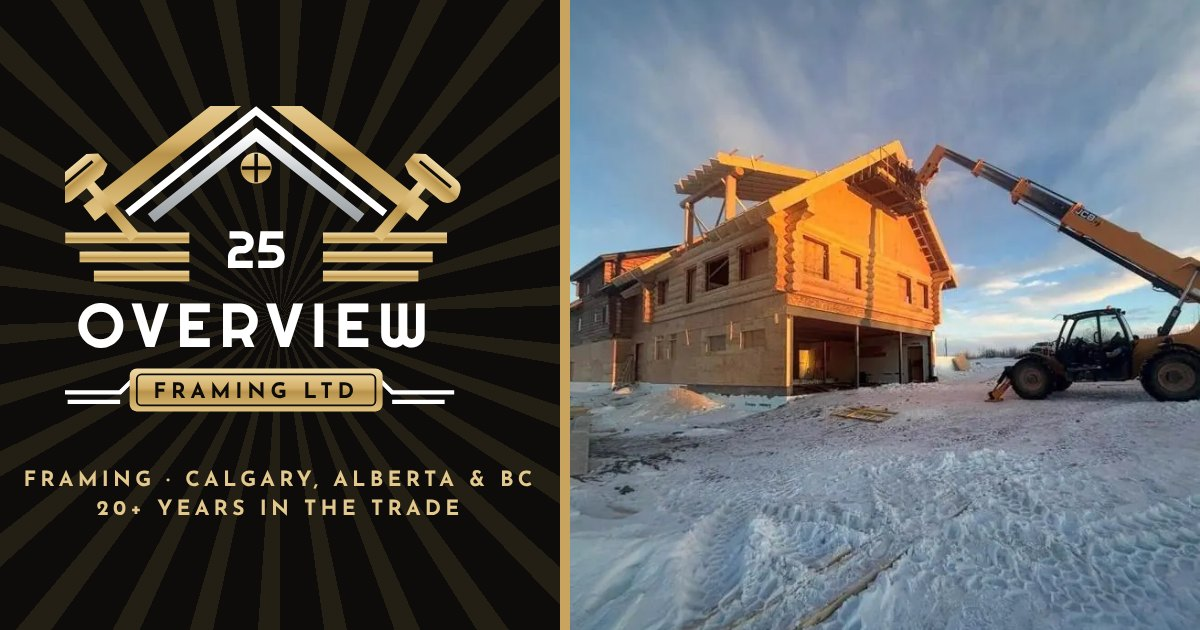
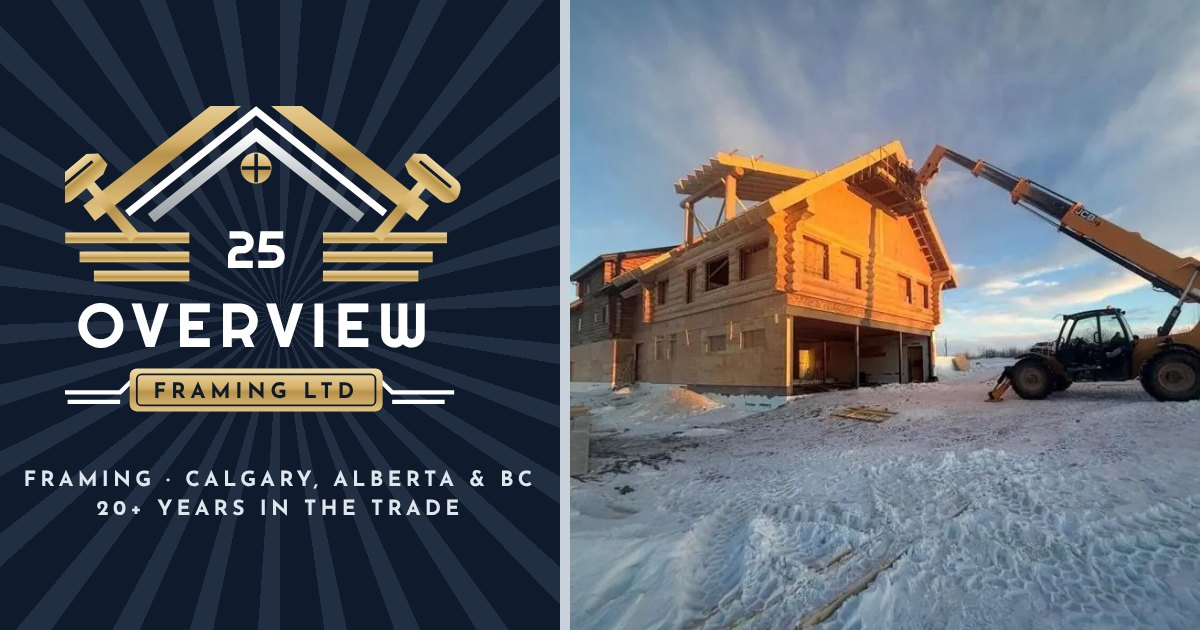
Overview Framing preview: navy and silver instead of black and gold
Hermes Framing is black and gold, so Overview's site now uses midnight
navy, brushed silver and white, with gold kept only in Brandon's logo.
Updated the 3D cabin plinth and lighting, the map and roof pitch
drawings, the dusk sky, the favicon, touch icon and share image.

Claude-Session: https://claude.ai/code/session_018pMZ9CVNc3LT9mLF1abJds

diff --git a/overview-framing/index.html b/overview-framing/index.html
@@ -8,7 +8,7 @@
   <!-- Preview copy: kept out of search results. At launch, change to: index, follow, max-image-preview:large, max-snippet:-1 -->
   <meta name="robots" content="noindex">
   <meta name="author" content="Overview Framing Ltd">
-  <meta name="theme-color" content="#0d0c0a">
+  <meta name="theme-color" content="#0f1b2d">
   <meta name="geo.region" content="CA-AB">
   <meta name="geo.placename" content="Calgary">
   <meta name="geo.position" content="51.0447;-114.0719">
@@ -48,24 +48,24 @@
    Layout: art deco. Dark sunburst hero with a 3D cabin build; ivory "paper" bands alternate with
    black bands; roof-peak chevrons, stepped corners and triple rules as the deco details. */
 :root {
-  --ink: #0d0c0a;
-  --ink-2: #16140f;
-  --ink-3: #201d17;
-  --ink-line: #34302a;
-  --gold: #c8a45f;
-  --gold-2: #e3c88d;
-  --gold-deep: #8a6a2c;
-  --silver: #bfc3c6;
-  --ivory: #f4efe3;
-  --on-ink: #f4efe3;
-  --on-ink-muted: #b4ab9a;
+  --ink: #0f1b2d;
+  --ink-2: #15243a;
+  --ink-3: #1c2d46;
+  --ink-line: #2a3d58;
+  --gold: #c9d1db;
+  --gold-2: #eef2f6;
+  --gold-deep: #7f8ea3;
+  --silver: #c9d1db;
+  --ivory: #f5f7fa;
+  --on-ink: #f5f7fa;
+  --on-ink-muted: #a9b6c6;
 
-  --bg: #f6f1e6;
-  --surface: #fffdf8;
-  --fg: #16140f;
-  --muted: #5f584b;
-  --line: #ddd3bf;
-  --accent: #8a6a2c;
+  --bg: #f2f5f8;
+  --surface: #ffffff;
+  --fg: #0f1b2d;
+  --muted: #55637a;
+  --line: #d6dee8;
+  --accent: #2f5277;
   --note-bg: #fbf0cf;
   --note-fg: #6b4c00;
 
@@ -78,9 +78,9 @@
   --gr: max(16px, env(safe-area-inset-right, 0px));
 }
 @media (prefers-color-scheme: dark) {
-  :root:not([data-theme="light"]) { --bg: #12110d; --surface: #1b1914; --fg: #f1ece0; --muted: #b0a794; --line: #352f25; --accent: #e3c88d; --note-bg: #3a3110; --note-fg: #f3d98a; color-scheme: dark; }
+  :root:not([data-theme="light"]) { --bg: #0c1522; --surface: #142134; --fg: #eef2f6; --muted: #a3b1c2; --line: #26364d; --accent: #b9c6d6; --note-bg: #3a3110; --note-fg: #f3d98a; color-scheme: dark; }
 }
-:root[data-theme="dark"] { --bg: #12110d; --surface: #1b1914; --fg: #f1ece0; --muted: #b0a794; --line: #352f25; --accent: #e3c88d; --note-bg: #3a3110; --note-fg: #f3d98a; color-scheme: dark; }
+:root[data-theme="dark"] { --bg: #0c1522; --surface: #142134; --fg: #eef2f6; --muted: #a3b1c2; --line: #26364d; --accent: #b9c6d6; --note-bg: #3a3110; --note-fg: #f3d98a; color-scheme: dark; }
 
 *, *::before, *::after { box-sizing: border-box; }
 html { -webkit-text-size-adjust: 100%; scroll-behavior: smooth; scroll-padding-top: 84px; }
@@ -123,14 +123,14 @@ section.band { padding-block: clamp(64px, 9vw, 116px); }
 .btn { --cut: 9px; display: inline-flex; align-items: center; justify-content: center; gap: 10px; min-height: 52px; padding: 0 26px; font: 700 .86rem/1 var(--label); letter-spacing: .16em; text-transform: uppercase; text-decoration: none; border: 0; clip-path: polygon(var(--cut) 0, calc(100% - var(--cut)) 0, 100% var(--cut), 100% calc(100% - var(--cut)), calc(100% - var(--cut)) 100%, var(--cut) 100%, 0 calc(100% - var(--cut)), 0 var(--cut)); transition: transform .2s var(--ease), filter .2s; }
 .btn:hover { transform: translateY(-2px); filter: brightness(1.06); }
 .btn svg { width: 18px; height: 18px; flex: none; }
-.btn-gold { background: linear-gradient(180deg, var(--gold-2), var(--gold) 55%, #b18d48); color: var(--ink); }
-.btn-silver { background: linear-gradient(180deg, #f4f5f6, var(--silver)); color: var(--ink); }
+.btn-gold { background: linear-gradient(180deg, #ffffff, #d5dce4 55%, #aeb9c6); color: var(--ink); }
+.btn-silver { background: #2a4366; color: #ffffff; }
 .btn-line { background: transparent; color: inherit; box-shadow: inset 0 0 0 1.5px currentColor; clip-path: none; }
 .btn-sm { min-height: 42px; padding: 0 18px; font-size: .76rem; }
 
 /* banner + header */
-.preview { background: var(--gold); color: var(--ink); font: 700 .78rem/1.4 var(--label); letter-spacing: .08em; text-align: center; padding-block: 9px 7px; }
-header.site { position: sticky; top: env(safe-area-inset-top, 0px); z-index: 50; background: rgba(13,12,10,.9); backdrop-filter: blur(10px); -webkit-backdrop-filter: blur(10px); color: var(--on-ink); border-bottom: 1px solid var(--ink-line); transition: background .3s; }
+.preview { background: #c9d1db; color: var(--ink); font: 700 .78rem/1.4 var(--label); letter-spacing: .08em; text-align: center; padding-block: 9px 7px; }
+header.site { position: sticky; top: env(safe-area-inset-top, 0px); z-index: 50; background: rgba(15,27,45,.9); backdrop-filter: blur(10px); -webkit-backdrop-filter: blur(10px); color: var(--on-ink); border-bottom: 1px solid var(--ink-line); transition: background .3s; }
 header.site::after { content: ""; position: absolute; left: 0; bottom: -1px; height: 2px; width: calc(var(--p, 0) * 100%); background: linear-gradient(90deg, var(--gold-deep), var(--gold-2)); }
 .hdr { display: flex; align-items: center; gap: 22px; min-height: 70px; }
 .brand { display: flex; align-items: center; gap: 12px; text-decoration: none; margin-right: auto; color: var(--on-ink); }
@@ -153,7 +153,7 @@ nav.main a:hover::after, nav.main a.on::after { transform: scaleX(1); }
 .menu-btn[aria-expanded="true"] span::after { transform: translateY(-6px) rotate(-45deg); }
 @media (max-width: 1040px) {
   .menu-btn { display: block; }
-  nav.main { position: absolute; left: 0; right: 0; top: 100%; flex-direction: column; background: rgba(13,12,10,.98); padding: 10px var(--gr) 18px var(--gl); border-bottom: 1px solid var(--ink-line); display: none; }
+  nav.main { position: absolute; left: 0; right: 0; top: 100%; flex-direction: column; background: rgba(15,27,45,.98); padding: 10px var(--gr) 18px var(--gl); border-bottom: 1px solid var(--ink-line); display: none; }
   nav.main.open { display: flex; }
   nav.main a { padding: 14px 0; font-size: .86rem; }
   nav.main a::after { left: 0; right: auto; width: 40px; }
@@ -162,14 +162,14 @@ nav.main a:hover::after, nav.main a.on::after { transform: scaleX(1); }
 
 /* hero: sunburst + 3D cabin */
 .hero { position: relative; overflow: hidden; padding-block: clamp(36px, 5vw, 70px) clamp(40px, 6vw, 80px); }
-.sunburst { position: absolute; left: 64%; top: 54%; width: 1800px; height: 1800px; margin: -900px 0 0 -900px; pointer-events: none; opacity: .5;
-  background: repeating-conic-gradient(from 0deg, rgba(200,164,95,.13) 0deg 4deg, transparent 4deg 12deg);
+.sunburst { --ray: rgba(170,192,220,.12); position: absolute; left: 64%; top: 54%; width: 1800px; height: 1800px; margin: -900px 0 0 -900px; pointer-events: none; opacity: .5;
+  background: repeating-conic-gradient(from 0deg, var(--ray) 0deg 4deg, transparent 4deg 12deg);
   -webkit-mask: radial-gradient(circle, #000 0 20%, transparent 62%); mask: radial-gradient(circle, #000 0 20%, transparent 62%); }
 @media (prefers-reduced-motion: no-preference) { .sunburst { animation: spin 160s linear infinite; } @keyframes spin { to { transform: rotate(360deg); } } }
 .hero-grid { position: relative; display: grid; grid-template-columns: .82fr 1.18fr; gap: clamp(24px, 4vw, 56px); align-items: center; }
 .hero-copy { display: grid; gap: 22px; min-width: 0; }
 .hero h1 { font-size: clamp(2.4rem, 4.9vw, 4.1rem); text-transform: uppercase; line-height: .98; }
-.hero h1 .g { background: linear-gradient(180deg, #fff3d3 0%, var(--gold-2) 40%, var(--gold) 60%, #9c7a38 100%); -webkit-background-clip: text; background-clip: text; color: transparent; }
+.hero h1 .g { background: linear-gradient(180deg, #ffffff 0%, #e3e9ef 40%, #a9b6c6 60%, #dfe6ee 100%); -webkit-background-clip: text; background-clip: text; color: transparent; }
 .hero .sub { color: var(--on-ink-muted); font-size: 1.1rem; max-width: 44ch; }
 .ctas { display: flex; flex-wrap: wrap; gap: 12px; }
 .contact-line { display: flex; flex-wrap: wrap; gap: 6px 22px; font: 600 .86rem/1.4 var(--label); letter-spacing: .06em; color: var(--on-ink-muted); }
@@ -178,7 +178,7 @@ nav.main a:hover::after, nav.main a.on::after { transform: scaleX(1); }
 @media (max-width: 480px) { .ctas .btn { flex: 1 1 100%; } }
 
 .viewer { position: relative; min-width: 0; }
-.viewer-frame { position: relative; background: radial-gradient(ellipse 75% 65% at 50% 46%, #2c271f, #14120e 62%, #0d0c0a); border: 1px solid rgba(200,164,95,.4); }
+.viewer-frame { position: relative; background: radial-gradient(ellipse 75% 65% at 50% 46%, #24395a, #142237 62%, #0f1b2d); border: 1px solid rgba(201,209,219,.4); }
 .viewer-frame::before, .viewer-frame::after { content: ""; position: absolute; width: 34px; height: 34px; pointer-events: none; z-index: 3; border: 2px solid var(--gold); }
 .viewer-frame::before { left: -6px; top: -6px; border-right: 0; border-bottom: 0; }
 .viewer-frame::after { right: -6px; bottom: -6px; border-left: 0; border-top: 0; }
@@ -186,7 +186,7 @@ nav.main a:hover::after, nav.main a.on::after { transform: scaleX(1); }
 #cabin-stage.dragging { cursor: grabbing; }
 #cabin-stage:focus-visible { box-shadow: inset 0 0 0 3px var(--gold-2); }
 #cabin-stage canvas { position: absolute; inset: 0; width: 100% !important; height: 100% !important; display: block; }
-#cabin-stage[data-light="dusk"] { background: radial-gradient(ellipse 80% 60% at 30% 40%, rgba(255,140,60,.22), transparent 60%), linear-gradient(180deg, #2a1d2c, #120e14 70%); }
+#cabin-stage[data-light="dusk"] { background: radial-gradient(ellipse 80% 60% at 30% 40%, rgba(255,140,60,.22), transparent 60%), linear-gradient(180deg, #2b3557, #0d1526 70%); }
 .loading { position: absolute; inset: 0; display: grid; place-items: center; color: var(--on-ink-muted); font: 700 .74rem/1 var(--label); letter-spacing: .24em; text-transform: uppercase; }
 .webgl-ready .loading { display: none; }
 .fallback { display: none; position: absolute; inset: 0; }
@@ -199,7 +199,7 @@ nav.main a:hover::after, nav.main a.on::after { transform: scaleX(1); }
 .v-hud dt { font: 700 .58rem/1 var(--label); letter-spacing: .2em; text-transform: uppercase; color: var(--on-ink-muted); }
 .v-hud dd { margin: 4px 0 0; font: 400 1.4rem/1 var(--display); color: var(--gold-2); font-variant-numeric: tabular-nums; }
 .v-ctrl { position: absolute; right: 22px; top: 20px; z-index: 2; display: flex; gap: 6px; }
-.vbtn { min-height: 38px; min-width: 38px; padding: 0 12px; display: inline-flex; gap: 6px; align-items: center; justify-content: center; border: 1px solid rgba(200,164,95,.5); background: rgba(13,12,10,.72); color: var(--on-ink); font: 700 .66rem/1 var(--label); letter-spacing: .16em; text-transform: uppercase; }
+.vbtn { min-height: 38px; min-width: 38px; padding: 0 12px; display: inline-flex; gap: 6px; align-items: center; justify-content: center; border: 1px solid rgba(201,209,219,.5); background: rgba(15,27,45,.72); color: var(--on-ink); font: 700 .66rem/1 var(--label); letter-spacing: .16em; text-transform: uppercase; }
 .vbtn:hover, .vbtn[aria-pressed="true"] { border-color: var(--gold-2); color: var(--gold-2); }
 .vbtn svg { width: 16px; height: 16px; }
 .scrub { display: grid; grid-template-columns: auto 1fr; gap: 14px; align-items: center; margin-top: 14px; }
@@ -207,8 +207,8 @@ nav.main a:hover::after, nav.main a.on::after { transform: scaleX(1); }
 .scrub-play svg { width: 18px; height: 18px; }
 .scrub-track { position: relative; min-width: 0; }
 .scrub input { width: 100%; margin: 0; appearance: none; -webkit-appearance: none; background: transparent; height: 30px; cursor: pointer; }
-.scrub input::-webkit-slider-runnable-track { height: 4px; background: linear-gradient(90deg, var(--gold) 0 calc(var(--v, 0) * 1%), #3a352c calc(var(--v, 0) * 1%)); }
-.scrub input::-moz-range-track { height: 4px; background: #3a352c; }
+.scrub input::-webkit-slider-runnable-track { height: 4px; background: linear-gradient(90deg, var(--gold) 0 calc(var(--v, 0) * 1%), #2a3d58 calc(var(--v, 0) * 1%)); }
+.scrub input::-moz-range-track { height: 4px; background: #2a3d58; }
 .scrub input::-moz-range-progress { height: 4px; background: var(--gold); }
 .scrub input::-webkit-slider-thumb { -webkit-appearance: none; width: 18px; height: 18px; margin-top: -7px; background: var(--gold-2); transform: rotate(45deg); border: 2px solid var(--ink); }
 .scrub input::-moz-range-thumb { width: 16px; height: 16px; background: var(--gold-2); transform: rotate(45deg); border: 2px solid var(--ink); border-radius: 0; }
@@ -244,13 +244,13 @@ section.band.answers { padding-block: clamp(44px, 6vw, 72px); }
 .face.front { color: #fff; }
 .face.front img { position: absolute; inset: 0; width: 100%; height: 100%; object-fit: cover; transition: transform .8s var(--ease); }
 .flip:hover .face.front img { transform: scale(1.05); }
-.face.front::after { content: ""; position: absolute; inset: 0; background: linear-gradient(180deg, rgba(13,12,10,.05) 30%, rgba(13,12,10,.88)); }
+.face.front::after { content: ""; position: absolute; inset: 0; background: linear-gradient(180deg, rgba(15,27,45,.05) 30%, rgba(15,27,45,.88)); }
 .face.front .ft { position: relative; z-index: 1; align-self: end; padding: 22px; display: grid; gap: 8px; }
 .face.front .num { font: 700 .7rem/1 var(--label); letter-spacing: .24em; color: var(--gold-2); }
 .face.front h3 { font-size: 1.5rem; }
 .face.front .more { font: 700 .66rem/1 var(--label); letter-spacing: .2em; text-transform: uppercase; color: var(--gold-2); display: inline-flex; gap: 8px; align-items: center; }
 .face.back { transform: rotateY(180deg); background: var(--ink); color: var(--on-ink); padding: 26px; align-content: start; gap: 14px; border: 1.5px solid var(--gold); }
-.face.back::before { content: ""; position: absolute; inset: 8px; border: 1px solid rgba(200,164,95,.35); pointer-events: none; }
+.face.back::before { content: ""; position: absolute; inset: 8px; border: 1px solid rgba(201,209,219,.35); pointer-events: none; }
 .face.back h3 { color: var(--gold-2); }
 .face.back p { color: var(--on-ink-muted); font-size: .96rem; }
 .face.back ul { margin: 0; padding: 0; list-style: none; display: flex; flex-wrap: wrap; gap: 6px; }
@@ -268,9 +268,9 @@ section.band.answers { padding-block: clamp(44px, 6vw, 72px); }
 .tile { break-inside: avoid; margin: 0 0 14px; position: relative; display: block; width: 100%; border: 0; padding: 0; background: var(--ink); overflow: hidden; cursor: zoom-in; transition: opacity .4s, transform .4s var(--ease); }
 .tile img { display: block; width: 100%; height: auto; transition: transform .7s var(--ease); }
 .tile:hover img { transform: scale(1.04); }
-.tile figcaption { position: absolute; left: 0; right: 0; bottom: 0; padding: 36px 16px 14px; background: linear-gradient(transparent, rgba(13,12,10,.9)); color: #fff; text-align: left; font-weight: 700; font-size: .92rem; display: grid; gap: 3px; }
+.tile figcaption { position: absolute; left: 0; right: 0; bottom: 0; padding: 36px 16px 14px; background: linear-gradient(transparent, rgba(15,27,45,.9)); color: #fff; text-align: left; font-weight: 700; font-size: .92rem; display: grid; gap: 3px; }
 .tile figcaption small { font: 700 .62rem/1 var(--label); letter-spacing: .22em; text-transform: uppercase; color: var(--gold-2); }
-.tile::after { content: ""; position: absolute; inset: 10px; border: 1px solid rgba(227,200,141,.6); opacity: 0; transition: opacity .3s, inset .3s var(--ease); pointer-events: none; }
+.tile::after { content: ""; position: absolute; inset: 10px; border: 1px solid rgba(238,242,246,.6); opacity: 0; transition: opacity .3s, inset .3s var(--ease); pointer-events: none; }
 .tile:hover::after, .tile:focus-visible::after { opacity: 1; inset: 14px; }
 .tile.hide { display: none; }
 .gal-note { margin-top: 10px; color: var(--muted); font-size: .86rem; }
@@ -324,8 +324,8 @@ section.band.answers { padding-block: clamp(44px, 6vw, 72px); }
 /* about */
 .about-grid { display: grid; grid-template-columns: .9fr 1.1fr; gap: clamp(32px, 6vw, 72px); align-items: center; }
 .badge { background: var(--ink); padding: clamp(28px, 5vw, 52px); position: relative; overflow: hidden; display: grid; place-items: center; perspective: 900px; --c: 26px; clip-path: polygon(var(--c) 0, calc(100% - var(--c)) 0, 100% var(--c), 100% calc(100% - var(--c)), calc(100% - var(--c)) 100%, var(--c) 100%, 0 calc(100% - var(--c)), 0 var(--c)); }
-.badge::before { content: ""; position: absolute; inset: -40%; background: repeating-conic-gradient(rgba(200,164,95,.1) 0deg 5deg, transparent 5deg 15deg); }
-.badge::after { content: ""; position: absolute; inset: 0; pointer-events: none; background: linear-gradient(105deg, transparent 38%, rgba(255,240,200,.16) 50%, transparent 62%); transform: translateX(var(--shine, -70%)); transition: transform .2s linear; }
+.badge::before { content: ""; position: absolute; inset: -40%; background: repeating-conic-gradient(rgba(201,209,219,.1) 0deg 5deg, transparent 5deg 15deg); }
+.badge::after { content: ""; position: absolute; inset: 0; pointer-events: none; background: linear-gradient(105deg, transparent 38%, rgba(235,242,250,.16) 50%, transparent 62%); transform: translateX(var(--shine, -70%)); transition: transform .2s linear; }
 .badge svg { position: relative; width: 100%; max-width: 400px; height: auto; transform: rotateX(var(--rx, 0)) rotateY(var(--ry, 0)); transition: transform .3s var(--ease); filter: drop-shadow(0 16px 24px rgba(0,0,0,.6)); }
 .about-copy { display: grid; gap: 18px; min-width: 0; }
 .about-copy p { max-width: 62ch; }
@@ -343,7 +343,7 @@ section.band.answers { padding-block: clamp(44px, 6vw, 72px); }
 .map svg { display: block; width: 100%; height: auto; }
 .prov-cards { display: grid; gap: 14px; }
 .prov { border: 1px solid var(--ink-line); padding: 24px; display: grid; gap: 8px; align-content: start; background: transparent; text-align: left; color: inherit; transition: border-color .3s, background .3s; }
-.prov[aria-pressed="true"] { border-color: var(--gold); background: rgba(200,164,95,.07); }
+.prov[aria-pressed="true"] { border-color: var(--gold); background: rgba(201,209,219,.07); }
 .prov .code { font: 400 2rem/1 var(--display); color: var(--gold-2); }
 .prov p { color: var(--on-ink-muted); }
 .map .shape { transition: fill .4s, stroke .4s; }
@@ -381,13 +381,13 @@ section.band.answers { padding-block: clamp(44px, 6vw, 72px); }
 .tile-opt input { position: absolute; inset: 0; opacity: 0; margin: 0; cursor: pointer; }
 .tile-opt span { display: grid; gap: 8px; height: 100%; padding: 14px; border: 1.5px solid var(--line); font-weight: 700; font-size: .9rem; line-height: 1.25; transition: border-color .2s, background .2s; }
 .tile-opt svg { width: 28px; height: 28px; color: var(--accent); }
-.tile-opt input:checked + span { border-color: var(--gold); background: rgba(200,164,95,.12); }
+.tile-opt input:checked + span { border-color: var(--gold); background: rgba(201,209,219,.12); }
 .tile-opt input:focus-visible + span { outline: 3px solid var(--gold-2); outline-offset: 2px; }
 .opts { display: flex; flex-wrap: wrap; gap: 8px; }
 .opt { position: relative; }
 .opt input { position: absolute; inset: 0; opacity: 0; margin: 0; cursor: pointer; }
 .opt span { display: inline-flex; align-items: center; min-height: 42px; padding: 0 16px; border: 1.5px solid var(--line); font-weight: 700; font-size: .9rem; }
-.opt input:checked + span { border-color: var(--gold); background: rgba(200,164,95,.12); }
+.opt input:checked + span { border-color: var(--gold); background: rgba(201,209,219,.12); }
 .opt input:focus-visible + span { outline: 3px solid var(--gold-2); outline-offset: 2px; }
 .q-label { font: 700 .7rem/1.3 var(--label); letter-spacing: .18em; text-transform: uppercase; color: var(--muted); }
 .fields { display: grid; grid-template-columns: 1fr 1fr; gap: 14px; }
@@ -395,7 +395,7 @@ section.band.answers { padding-block: clamp(44px, 6vw, 72px); }
 .field { display: grid; gap: 6px; font-weight: 700; font-size: .88rem; min-width: 0; }
 .field input, .field textarea { font: inherit; font-weight: 400; color: var(--fg); background: var(--bg); border: 1.5px solid var(--line); padding: 12px 13px; min-height: 48px; width: 100%; }
 .field textarea { min-height: 110px; resize: vertical; }
-.field input:focus, .field textarea:focus { outline: none; border-color: var(--gold); box-shadow: 0 0 0 3px rgba(200,164,95,.25); }
+.field input:focus, .field textarea:focus { outline: none; border-color: var(--gold); box-shadow: 0 0 0 3px rgba(201,209,219,.25); }
 .err { color: #b3261e; font-size: .82rem; }
 .wz-nav { display: flex; justify-content: space-between; gap: 12px; margin-top: 22px; }
 .wz-nav .btn-line { color: var(--fg); }
@@ -413,7 +413,7 @@ footer.site { padding-block: 48px calc(48px + 76px); font-size: .9rem; color: va
 .foot a { text-decoration: none; } .foot a:hover { color: var(--gold-2); }
 .foot-bottom { margin-top: 34px; padding-top: 20px; border-top: 1px solid var(--ink-line); display: flex; flex-wrap: wrap; justify-content: space-between; gap: 8px 20px; font-size: .8rem; }
 @media (min-width: 1041px) { footer.site { padding-bottom: 48px; } }
-.callbar { position: fixed; left: 0; right: 0; bottom: 0; z-index: 55; display: none; gap: 10px; padding: 10px var(--gr) calc(10px + env(safe-area-inset-bottom, 0px)) var(--gl); background: rgba(13,12,10,.96); border-top: 1px solid var(--ink-line); transition: transform .3s var(--ease); }
+.callbar { position: fixed; left: 0; right: 0; bottom: 0; z-index: 55; display: none; gap: 10px; padding: 10px var(--gr) calc(10px + env(safe-area-inset-bottom, 0px)) var(--gl); background: rgba(15,27,45,.96); border-top: 1px solid var(--ink-line); transition: transform .3s var(--ease); }
 .callbar .btn { flex: 1; min-height: 50px; padding: 0 10px; }
 @media (max-width: 1040px) { .callbar { display: flex; } }
 
@@ -438,14 +438,14 @@ footer.site { padding-block: 48px calc(48px + 76px); font-size: .9rem; color: va
     <g id="ovHammer">
       <path d="M-4 0 L4 0 L5 66 L-5 66 Z" fill="url(#ovGold)"/>
       <path d="M-20 -14 L14 -14 L22 -8 L22 4 L14 8 L-20 8 Q-28 8 -30 -2 Q-28 -14 -20 -14 Z" fill="url(#ovGold)"/>
-      <path d="M-20 -6 L14 -6" stroke="#0d0c0a" stroke-width="2.5"/>
+      <path d="M-20 -6 L14 -6" stroke="#0f1b2d" stroke-width="2.5"/>
     </g>
     <g id="ovRoof">
       <path d="M60 150 L200 40 L340 150" fill="none" stroke="url(#ovGold)" stroke-width="16" stroke-linejoin="miter"/>
       <path d="M92 150 L200 64 L308 150" fill="none" stroke="#ffffff" stroke-width="6"/>
       <path d="M112 154 L200 84 L288 154" fill="none" stroke="url(#ovSilver)" stroke-width="9"/>
       <circle cx="200" cy="112" r="13" fill="url(#ovGold)"/>
-      <path d="M200 100 V124 M188 112 H212" stroke="#0d0c0a" stroke-width="3"/>
+      <path d="M200 100 V124 M188 112 H212" stroke="#0f1b2d" stroke-width="3"/>
       <g fill="url(#ovGold)"><rect x="40" y="166" width="104" height="9"/><rect x="52" y="182" width="92" height="9"/><rect x="64" y="198" width="80" height="9"/><rect x="256" y="166" width="104" height="9"/><rect x="256" y="182" width="92" height="9"/><rect x="256" y="198" width="80" height="9"/></g>
       <use href="#ovHammer" transform="translate(56 120) rotate(-40)"/>
       <use href="#ovHammer" transform="translate(344 120) rotate(40) scale(-1 1)"/>
@@ -460,8 +460,8 @@ footer.site { padding-block: 48px calc(48px + 76px); font-size: .9rem; color: va
     <path d="M34 300 H86 L96 290 M42 308 H86" fill="none" stroke="#ffffff" stroke-width="3.5"/>
     <path d="M366 300 H314 L304 290 M358 308 H314" fill="none" stroke="#ffffff" stroke-width="3.5"/>
     <rect x="94" y="280" width="212" height="36" rx="6" fill="url(#ovGold)"/>
-    <rect x="100" y="285" width="200" height="26" rx="4" fill="none" stroke="#0d0c0a" stroke-width="1.5"/>
-    <text x="200" y="305" text-anchor="middle" font-family="'Josefin Sans', Arial, sans-serif" font-weight="700" font-size="18" letter-spacing="4" fill="#0d0c0a">FRAMING LTD</text>
+    <rect x="100" y="285" width="200" height="26" rx="4" fill="none" stroke="#0f1b2d" stroke-width="1.5"/>
+    <text x="200" y="305" text-anchor="middle" font-family="'Josefin Sans', Arial, sans-serif" font-weight="700" font-size="18" letter-spacing="4" fill="#0f1b2d">FRAMING LTD</text>
   </symbol>
 </svg>
 <svg width="0" height="0" style="position:absolute" aria-hidden="true">

diff --git a/overview-framing/js/main.js b/overview-framing/js/main.js
@@ -87,7 +87,7 @@
   ];
   var flips = $('#flips');
   if (flips) {
-    var GARAGE = '<svg viewBox="0 0 300 300" aria-hidden="true" style="position:absolute;inset:0;width:100%;height:100%;background:#16140f"><g fill="none" stroke="#c8a45f" stroke-width="2"><path d="M40 150 150 70l110 80"/><path d="M60 140v110h180V140"/><path d="M95 250v-70h110v70"/><path d="M95 198h110M95 216h110M95 234h110" stroke-width="1.2"/>' +
+    var GARAGE = '<svg viewBox="0 0 300 300" aria-hidden="true" style="position:absolute;inset:0;width:100%;height:100%;background:#15243a"><g fill="none" stroke="#c9d1db" stroke-width="2"><path d="M40 150 150 70l110 80"/><path d="M60 140v110h180V140"/><path d="M95 250v-70h110v70"/><path d="M95 198h110M95 216h110M95 234h110" stroke-width="1.2"/>' +
       [0, 1, 2, 3, 4, 5, 6, 7, 8].map(function (i) { return '<path d="M' + (72 + i * 19.5) + ' 140v' + (i % 3 === 1 ? 30 : 110) + '" stroke-width="1" opacity=".5"/>'; }).join('') + '<path d="M150 70v30" /><circle cx="150" cy="112" r="9"/></g></svg>';
     SERVICES.forEach(function (s, i) {
       var b = document.createElement('button');
@@ -181,11 +181,11 @@
       var oh = 2, wall = 8, ridgeRise = s / 2 * r / 12, ohDrop = oh * r / 12;
       var sc = Math.min(520 / (s + 2 * oh), 230 / (ridgeRise + wall + 1));
       var gy = 318, cx = 300, plateY = gy - wall * sc, ridgeY = plateY - ridgeRise * sc, half = s / 2 * sc;
-      var gold = '#c8a45f', gold2 = '#e3c88d', sil = '#bfc3c6', mut = '#6f675a';
-      for (var gx = 0; gx <= 600; gx += 20) el('line', { x1: gx, y1: 0, x2: gx, y2: 340, stroke: '#211e18', 'stroke-width': 1 }, psvg);
-      for (var gy2 = 0; gy2 <= 340; gy2 += 20) el('line', { x1: 0, y1: gy2, x2: 600, y2: gy2, stroke: '#211e18', 'stroke-width': 1 }, psvg);
+      var gold = '#8fb0d4', gold2 = '#eef2f6', sil = '#c9d1db', mut = '#5f7089';
+      for (var gx = 0; gx <= 600; gx += 20) el('line', { x1: gx, y1: 0, x2: gx, y2: 340, stroke: '#1b2a40', 'stroke-width': 1 }, psvg);
+      for (var gy2 = 0; gy2 <= 340; gy2 += 20) el('line', { x1: 0, y1: gy2, x2: 600, y2: gy2, stroke: '#1b2a40', 'stroke-width': 1 }, psvg);
       el('line', { x1: 20, y1: gy, x2: 580, y2: gy, stroke: mut, 'stroke-width': 2 }, psvg);
-      el('rect', { x: cx - half, y: plateY, width: half * 2, height: wall * sc, fill: 'rgba(200,164,95,.06)', stroke: sil, 'stroke-width': 2 }, psvg);
+      el('rect', { x: cx - half, y: plateY, width: half * 2, height: wall * sc, fill: 'rgba(201,209,219,.05)', stroke: sil, 'stroke-width': 2 }, psvg);
       for (var k = 1; k < s / 1.333; k++) { var x = cx - half + k * 1.333 * sc; if (x < cx + half - 2) el('line', { x1: x, y1: plateY, x2: x, y2: gy, stroke: sil, 'stroke-width': 0.6, opacity: 0.35 }, psvg); }
       // truss webbing
       var w = [[cx - half, plateY], [cx - half / 2, plateY - ridgeRise * sc / 2], [cx - half / 3, plateY], [cx, ridgeY], [cx + half / 3, plateY], [cx + half / 2, plateY - ridgeRise * sc / 2], [cx + half, plateY]];
@@ -234,29 +234,29 @@
     var AB = [[-120, 60], [-110, 60], [-110, 49]].concat(divide).concat([[-120, 60]]);
     var BC = [[-120, 60], [-139.05, 60], [-137.6, 59.2], [-135.4, 59.7], [-133.4, 58.4], [-131.8, 56.6], [-130.0, 55.9], [-130.5, 54.7], [-129.6, 53.5], [-128.4, 52.3], [-127.4, 51.0], [-125.4, 50.2], [-124.3, 49.4], [-123.1, 49.0]].concat(divide).concat([[-120, 60]]);
     var VI = [[-128.4, 50.8], [-127.2, 50.9], [-125.4, 50.2], [-123.5, 48.4], [-124.7, 48.6], [-126.5, 49.5]];
-    for (var gx = 0; gx <= 640; gx += 32) el('line', { x1: gx, y1: 0, x2: gx, y2: 420, stroke: '#1f1c17', 'stroke-width': 1 }, map);
-    for (var gy = 0; gy <= 420; gy += 32) el('line', { x1: 0, y1: gy, x2: 640, y2: gy, stroke: '#1f1c17', 'stroke-width': 1 }, map);
+    for (var gx = 0; gx <= 640; gx += 32) el('line', { x1: gx, y1: 0, x2: gx, y2: 420, stroke: '#1b2a40', 'stroke-width': 1 }, map);
+    for (var gy = 0; gy <= 420; gy += 32) el('line', { x1: 0, y1: gy, x2: 640, y2: gy, stroke: '#1b2a40', 'stroke-width': 1 }, map);
     var shapes = {
       bc: [el('path', { d: P(BC), class: 'shape' }, map), el('path', { d: P(VI), class: 'shape' }, map)],
       ab: [el('path', { d: P(AB), class: 'shape' }, map)]
     };
-    el('text', { x: X(-126.5), y: Y(55.2), fill: '#7d7464', 'font-family': 'Josefin Sans, Arial', 'font-weight': 700, 'font-size': 13, 'letter-spacing': 4, 'text-anchor': 'middle' }, map, 'BRITISH COLUMBIA');
-    el('text', { x: X(-114.8), y: Y(56.4), fill: '#7d7464', 'font-family': 'Josefin Sans, Arial', 'font-weight': 700, 'font-size': 13, 'letter-spacing': 4, 'text-anchor': 'middle' }, map, 'ALBERTA');
+    el('text', { x: X(-126.5), y: Y(55.2), fill: '#7f8ea3', 'font-family': 'Josefin Sans, Arial', 'font-weight': 700, 'font-size': 13, 'letter-spacing': 4, 'text-anchor': 'middle' }, map, 'BRITISH COLUMBIA');
+    el('text', { x: X(-114.8), y: Y(56.4), fill: '#7f8ea3', 'font-family': 'Josefin Sans, Arial', 'font-weight': 700, 'font-size': 13, 'letter-spacing': 4, 'text-anchor': 'middle' }, map, 'ALBERTA');
     [['Edmonton', -113.49, 53.55], ['Red Deer', -113.81, 52.27], ['Rocky Mtn House', -114.92, 52.37], ['Kamloops', -120.33, 50.67], ['Kelowna', -119.5, 49.89], ['Vancouver', -123.12, 49.28]].forEach(function (t) {
-      el('circle', { cx: X(t[1]), cy: Y(t[2]), r: 3, fill: '#8e8574' }, map);
-      el('text', { x: X(t[1]) + (t[0] === 'Rocky Mtn House' || t[0] === 'Kamloops' || t[0] === 'Vancouver' ? -6 : 6), y: Y(t[2]) + 4, fill: '#8e8574', 'font-family': 'DM Sans, Arial', 'font-size': 10, 'text-anchor': t[0] === 'Rocky Mtn House' || t[0] === 'Kamloops' || t[0] === 'Vancouver' ? 'end' : 'start' }, map, t[0]);
+      el('circle', { cx: X(t[1]), cy: Y(t[2]), r: 3, fill: '#8796ab' }, map);
+      el('text', { x: X(t[1]) + (t[0] === 'Rocky Mtn House' || t[0] === 'Kamloops' || t[0] === 'Vancouver' ? -6 : 6), y: Y(t[2]) + 4, fill: '#8796ab', 'font-family': 'DM Sans, Arial', 'font-size': 10, 'text-anchor': t[0] === 'Rocky Mtn House' || t[0] === 'Kamloops' || t[0] === 'Vancouver' ? 'end' : 'start' }, map, t[0]);
     });
     var cxp = X(-114.07), cyp = Y(51.05);
     [70, 140, 210].forEach(function (rr, i) {
-      var ring = el('circle', { cx: cxp, cy: cyp, r: rr, fill: 'none', stroke: '#c8a45f', 'stroke-width': 1, 'stroke-dasharray': '3 6', opacity: 0.45 - i * 0.12 }, map);
+      var ring = el('circle', { cx: cxp, cy: cyp, r: rr, fill: 'none', stroke: '#c9d1db', 'stroke-width': 1, 'stroke-dasharray': '3 6', opacity: 0.45 - i * 0.12 }, map);
       if (!reduce && ring.animate) ring.animate([{ strokeDashoffset: 0 }, { strokeDashoffset: i % 2 ? 90 : -90 }], { duration: 9000 + i * 3000, iterations: Infinity });
     });
-    var pulse = el('circle', { cx: cxp, cy: cyp, r: 10, fill: 'none', stroke: '#e3c88d', 'stroke-width': 2 }, map);
+    var pulse = el('circle', { cx: cxp, cy: cyp, r: 10, fill: 'none', stroke: '#eef2f6', 'stroke-width': 2 }, map);
     if (!reduce && pulse.animate) pulse.animate([{ r: 8, opacity: 1 }, { r: 30, opacity: 0 }], { duration: 2200, iterations: Infinity });
-    el('path', { d: 'M' + cxp + ' ' + (cyp - 10) + ' l10 10 -10 10 -10 -10z', fill: '#e3c88d', stroke: '#0d0c0a', 'stroke-width': 2 }, map);
-    el('text', { x: cxp + 16, y: cyp + 5, fill: '#f4efe3', 'font-family': 'Righteous, Arial', 'font-size': 18, 'letter-spacing': 2 }, map, 'CALGARY');
+    el('path', { d: 'M' + cxp + ' ' + (cyp - 10) + ' l10 10 -10 10 -10 -10z', fill: '#eef2f6', stroke: '#0f1b2d', 'stroke-width': 2 }, map);
+    el('text', { x: cxp + 16, y: cyp + 5, fill: '#f5f7fa', 'font-family': 'Righteous, Arial', 'font-size': 18, 'letter-spacing': 2 }, map, 'CALGARY');
     function setProv(k) {
-      Object.keys(shapes).forEach(function (n) { shapes[n].forEach(function (p) { p.setAttribute('fill', n === k ? 'rgba(200,164,95,.22)' : 'rgba(200,164,95,.06)'); p.setAttribute('stroke', n === k ? '#c8a45f' : '#4a4337'); p.setAttribute('stroke-width', n === k ? 2 : 1.2); }); });
+      Object.keys(shapes).forEach(function (n) { shapes[n].forEach(function (p) { p.setAttribute('fill', n === k ? 'rgba(201,209,219,.2)' : 'rgba(201,209,219,.05)'); p.setAttribute('stroke', n === k ? '#c9d1db' : '#3a4d68'); p.setAttribute('stroke-width', n === k ? 2 : 1.2); }); });
       $$('.prov').forEach(function (c) { c.setAttribute('aria-pressed', c.dataset.prov === k); });
     }
     $$('.prov').forEach(function (c) { c.addEventListener('click', function () { setProv(c.dataset.prov); }); });

diff --git a/overview-framing/js/cabin.js b/overview-framing/js/cabin.js
@@ -23,13 +23,13 @@
   var look = new THREE.Vector3(0, 1.75, 0.3);
 
   // ---------- lights (day / dusk) ----------
-  var hemi = new THREE.HemisphereLight(0xe6edf3, 0x3a2f22, 0.8); scene.add(hemi);
+  var hemi = new THREE.HemisphereLight(0xe6edf3, 0x1d2a3d, 0.8); scene.add(hemi);
   var sun = new THREE.DirectionalLight(0xfff1dc, 0.9);
   sun.castShadow = true; sun.shadow.mapSize.set(2048, 2048);
   var sc = sun.shadow.camera; sc.left = -9; sc.right = 9; sc.top = 9; sc.bottom = -9; sc.far = 40;
   sun.shadow.bias = -0.0008; sun.shadow.radius = 3;
   scene.add(sun);
-  var rim = new THREE.DirectionalLight(0xd9b56a, 0.0); rim.position.set(-8, 4, -6); scene.add(rim);
+  var rim = new THREE.DirectionalLight(0xa9c4e6, 0.0); rim.position.set(-8, 4, -6); scene.add(rim);
   var glow = new THREE.PointLight(0xffb45c, 0, 7, 2); glow.position.set(0, 1.5, 0); scene.add(glow);
   var LIGHT = {
     day: { hemi: 0.8, hemiSky: new THREE.Color(0xe6edf3), sunC: new THREE.Color(0xfff1dc), sunI: 0.9, sunP: new THREE.Vector3(6, 10, 7), rim: 0.0, glow: 0 },
@@ -66,8 +66,8 @@
     ply: new THREE.MeshStandardMaterial({ color: 0xa88356, roughness: 0.9 }),
     concrete: new THREE.MeshStandardMaterial({ color: 0x77736c, roughness: 0.95 }),
     roof: new THREE.MeshStandardMaterial({ map: seam, roughness: 0.42, metalness: 0.55 }),
-    plinth: new THREE.MeshStandardMaterial({ color: 0x0c0b09, roughness: 1 }),
-    gold: new THREE.MeshStandardMaterial({ color: 0xc8a45f, emissive: 0x5a4114, emissiveIntensity: 0.6, roughness: 0.3, metalness: 0.8 })
+    plinth: new THREE.MeshStandardMaterial({ color: 0x0b1424, roughness: 1 }),
+    gold: new THREE.MeshStandardMaterial({ color: 0xc9d1db, emissive: 0x3c4c63, emissiveIntensity: 0.7, roughness: 0.25, metalness: 0.85 })
   };
 
   // ---------- stage / plinth ----------

diff --git a/README.md b/README.md
@@ -12,4 +12,4 @@ Each folder is a standalone client website preview, served by GitHub Pages at
 - `dot-jordan/` — DOT Jordan (Digital Opportunity Trust Jordan, youth non-profit; "Get involved" form instead of quotes)
 - `ctmt-builds/` — CTMT Builds Ltd. (BC framing contractor; stand-in CC0 photos credited in the footer; Google review link set in `js/main.js`)
 - `imperial-finishing/` — Imperial Finishing Ltd (Calgary & Lake Country finishing carpentry; interactive version: three.js 3D room studio in `js/room.js`, 3D model of the client's kitchen photo in `js/kitchen.js`, trim estimator and quote wizard in `js/main.js`; schema graph, quick answers and llms.txt for search and AI answers; refreshed logo in `images/imperial-finishing-logo.png`; phone, email and reviews still to add)
-- `overview-framing/` — Overview Framing Ltd (Brandon Sanguine, Calgary framing contractor, AB + BC; art deco look from his logo, 3D log cabin build in `js/cabin.js`; project photos shared with Hermes Framing and In Scribe Log Homes, permission to confirm)
+- `overview-framing/` — Overview Framing Ltd (Brandon Sanguine, Calgary framing contractor, AB + BC; art deco in navy and silver, gold only in his logo, kept apart from Hermes' black and gold; 3D log cabin build in `js/cabin.js`; project photos shared with Hermes Framing and In Scribe Log Homes, permission to confirm)
